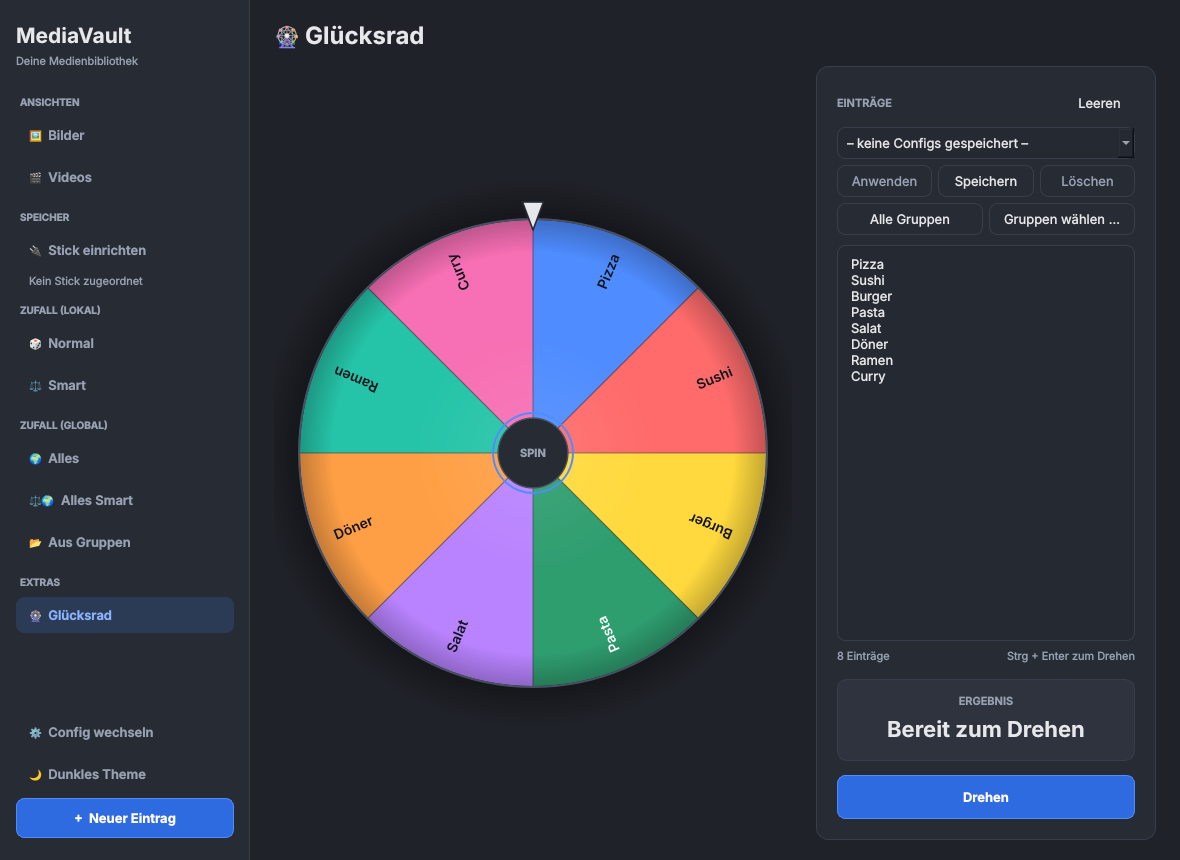
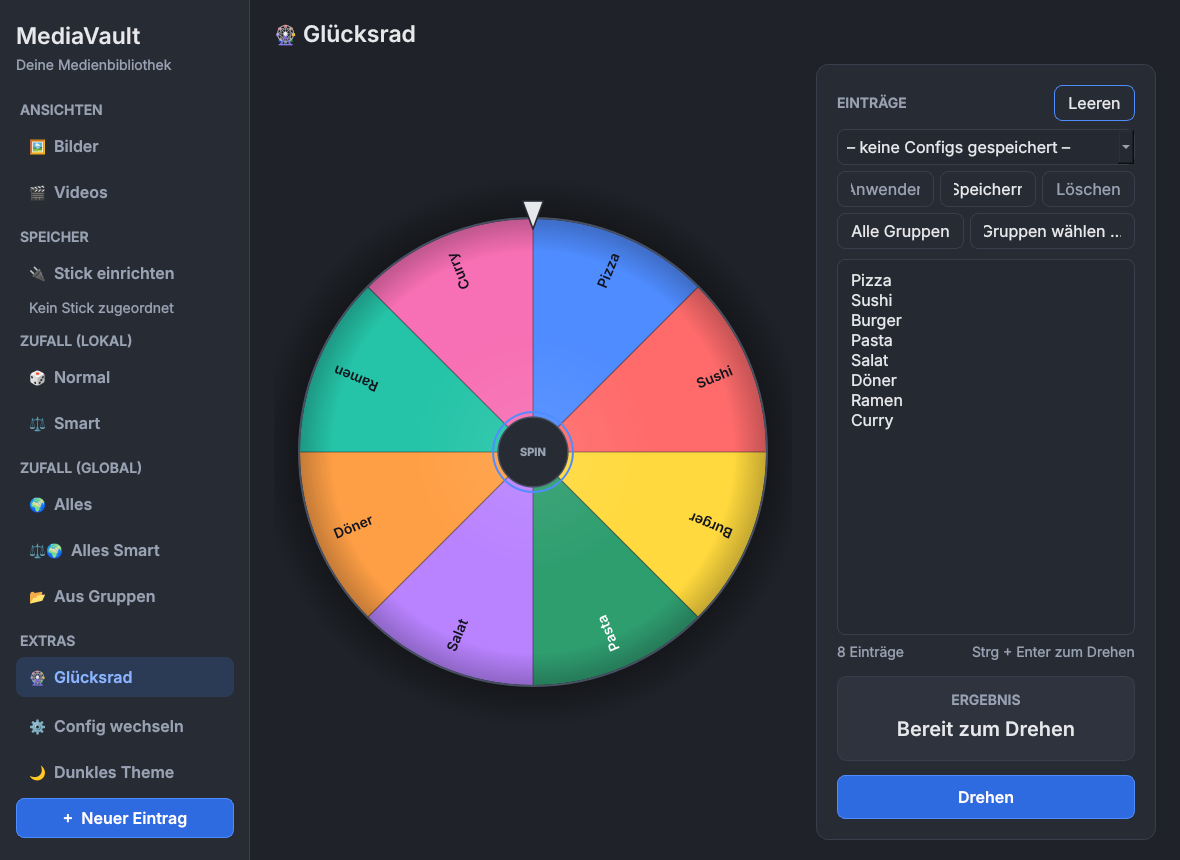
Feature: Type scale and visible keyboard focus (qt-ui-design audit)
Findings of the qt-ui-design skill: the stylesheet used seven font sizes
(10 to 24 px, body 13 px). It now uses a modular scale (major second, body
16 px) with four sizes in points, so they follow the OS DPI setting, and
medium instead of bold headings. Buttons had no visible keyboard focus;
they now show an accent border on Tab focus and no longer take focus on
click. The window starts with focus in the grid.

diff --git a/mediavault/gui/theme.py b/mediavault/gui/theme.py
@@ -33,6 +33,15 @@ _NEON_GRADIENT = (
 # Names in the order the sidebar button cycles through them, with their labels.
 THEME_LABELS = {"dark": "Dunkles Theme", "light": "Helles Theme", "neon": "Neon-Theme"}
 
+# Type scale: modular scale "major second" (ratio 1.125) on a 16 px body
+# (12 pt), at most four sizes. Points follow the OS DPI setting, pixels do not.
+TYPE_SCALE = {
+    "fs_caption": "10.5pt",  # ms(-1) ~14 px: section labels, hints, badges
+    "fs_body": "12pt",  # ms(0) 16 px: everything else
+    "fs_heading": "15pt",  # ms(2) ~20 px: dialog titles, wheel result
+    "fs_title": "17pt",  # ms(3) ~23 px: app and page title
+}
+
 PALETTES: dict[str, dict[str, str]] = {
     "dark": {
         "bg": "#1f2228",
@@ -143,7 +152,7 @@ QMainWindow, QDialog {
 
 QWidget {
     color: $text;
-    font-size: 13px;
+    font-size: $fs_body;
 }
 
 QWidget#Sidebar {
@@ -151,25 +160,25 @@ QWidget#Sidebar {
     border-right: 1px solid $border;
 }
 
-QLabel#AppTitle { font-size: 21px; font-weight: 700; }
-QLabel#AppSubtitle { color: $text_muted; font-size: 11px; }
-QLabel#SectionLabel { color: $text_muted; font-size: 10px; font-weight: 700; }
+QLabel#AppTitle { font-size: $fs_title; font-weight: 600; }
+QLabel#AppSubtitle { color: $text_muted; font-size: $fs_caption; }
+QLabel#SectionLabel { color: $text_muted; font-size: $fs_caption; font-weight: 600; }
 QPushButton#SectionToggle {
     background: transparent;
     border: none;
     color: $text_muted;
-    font-size: 10px;
-    font-weight: 700;
+    font-size: $fs_caption;
+    font-weight: 600;
     text-align: left;
     padding: 10px 0 2px 4px;
 }
 QPushButton#SectionToggle:hover { color: $text; }
-QLabel#PageTitle { font-size: 24px; font-weight: 700; }
-QLabel#DialogTitle { font-size: 20px; font-weight: 700; }
+QLabel#PageTitle { font-size: $fs_title; font-weight: 600; }
+QLabel#DialogTitle { font-size: $fs_heading; font-weight: 600; }
 QLabel#MutedLabel, QLabel#CardGroup { color: $text_muted; }
-QLabel#FieldLabel { color: $text_muted; font-size: 11px; font-weight: 600; }
-QLabel#SelectionCount { font-weight: 700; }
-QLabel#HintLabel { color: $text_muted; font-size: 11px; }
+QLabel#FieldLabel { color: $text_muted; font-size: $fs_caption; font-weight: 600; }
+QLabel#SelectionCount { font-weight: 600; }
+QLabel#HintLabel { color: $text_muted; font-size: $fs_caption; }
 
 QWidget#ActionBar {
     background-color: $surface;
@@ -196,7 +205,7 @@ QPushButton[variant="primary"] {
     background-color: $primary_fill;
     color: $primary_fill_text;
     border: 1px solid $accent;
-    font-weight: 700;
+    font-weight: 600;
 }
 QPushButton[variant="primary"]:hover {
     background-color: $primary_fill_hover;
@@ -212,7 +221,7 @@ QPushButton[variant="danger"] {
     background-color: $danger;
     color: #ffffff;
     border: 1px solid $danger;
-    font-weight: 700;
+    font-weight: 600;
 }
 QPushButton[variant="danger"]:hover {
     background-color: $danger_hover;
@@ -325,18 +334,18 @@ QLabel#CardImage {
     border-radius: 8px;
     color: $text_muted;
 }
-QLabel#CardTitle { background: transparent; font-weight: 700; }
+QLabel#CardTitle { background: transparent; font-weight: 600; }
 QLabel#SelectionBadge {
     background-color: $accent;
     color: $primary_text;
     border-radius: 11px;
-    font-weight: 700;
+    font-weight: 600;
 }
 QLabel#ScoreBadge {
     border-radius: 9px;
     padding: 2px 8px;
-    font-size: 11px;
-    font-weight: 700;
+    font-size: $fs_caption;
+    font-weight: 600;
 }
 QLabel#ScoreBadge[tier="high"] { background-color: $score_high; color: #ffffff; }
 QLabel#ScoreBadge[tier="mid"] { background-color: $score_mid; color: #ffffff; }
@@ -355,7 +364,7 @@ QFrame#DownloadRow {
     border-radius: 10px;
 }
 QLabel#DownloadIcon, QLabel#DownloadTitle { background: transparent; }
-QLabel#DownloadTitle { font-weight: 700; }
+QLabel#DownloadTitle { font-weight: 600; }
 QProgressBar {
     background-color: $surface_alt;
     border: none;
@@ -374,7 +383,7 @@ QFrame#WheelResult {
     border-radius: 10px;
 }
 QFrame#WheelPanel QLabel, QFrame#WheelResult QLabel { background: transparent; }
-QLabel#WheelWinner { font-size: 22px; font-weight: 700; }
+QLabel#WheelWinner { font-size: $fs_heading; font-weight: 600; }
 
 QRubberBand {
     background-color: $selection_fill;
@@ -391,6 +400,11 @@ QToolTip {
 
 QMenu, QMessageBox { background-color: $surface; }
 QMenu::item:selected { background-color: $nav_active_bg; color: $nav_active_text; }
+
+/* Last, so it wins over the variants: keyboard focus stays visible (WCAG
+   2.4.7). Buttons from the helpers take focus by Tab only, not by click. */
+QPushButton:focus:!pressed { border: 1px solid $accent; }
+QCheckBox::indicator:focus { border-color: $accent; }
 """
 )
 
@@ -398,7 +412,7 @@ QMenu::item:selected { background-color: $nav_active_bg; color: $nav_active_text
 def build_stylesheet(name: str) -> str:
     """Return the QSS for the requested theme, falling back to dark."""
     colors = PALETTES.get(name, PALETTES["dark"])
-    return _STYLESHEET.substitute(colors)
+    return _STYLESHEET.substitute({**TYPE_SCALE, **colors})
 
 
 def build_qpalette(name: str) -> QPalette:

diff --git a/tests/test_theme.py b/tests/test_theme.py
@@ -98,3 +98,13 @@ def test_text_contrast_meets_wcag_aa(name):
     for fg, bg in pairs:
         ratio = _contrast(colors.get(fg, fg), colors[bg])
         assert ratio >= 4.5, (name, fg, bg, round(ratio, 2))
+
+
+def test_stylesheet_uses_only_the_type_scale():
+    import re
+
+    from mediavault.gui.theme import TYPE_SCALE
+
+    for name in PALETTES:
+        sizes = set(re.findall(r"font-size:\s*([^;]+);", build_stylesheet(name)))
+        assert sizes <= set(TYPE_SCALE.values()), sizes

diff --git a/mediavault/gui/sidebar.py b/mediavault/gui/sidebar.py
@@ -44,6 +44,7 @@ def _nav_button(text: str, checkable: bool = False) -> QPushButton:
     """Create a left-aligned nav button; checkable ones are mutually exclusive."""
     btn = QPushButton(text)
     btn.setProperty("nav", True)
+    btn.setFocusPolicy(Qt.FocusPolicy.TabFocus)
     btn.setCursor(Qt.CursorShape.PointingHandCursor)
     if checkable:
         btn.setCheckable(True)

diff --git a/mediavault/gui/main_window.py b/mediavault/gui/main_window.py
@@ -136,6 +136,8 @@ class MainWindow(QMainWindow):
         self._volume_timer.setInterval(4000)
         self._volume_timer.timeout.connect(self._check_volumes)
         self._volume_timer.start()
+        # Start in the grid; otherwise Qt focuses the first sidebar button.
+        self.grid.setFocus()
 
     # --- UI construction ---
     def _setup_ui(self) -> None:

diff --git a/mediavault/gui/widgets.py b/mediavault/gui/widgets.py
@@ -49,6 +49,7 @@ def button(
     """
     btn = QPushButton(text)
     btn.setProperty("variant", variant)
+    btn.setFocusPolicy(Qt.FocusPolicy.TabFocus)
     if tooltip:
         btn.setToolTip(tooltip)
     if cursor:
